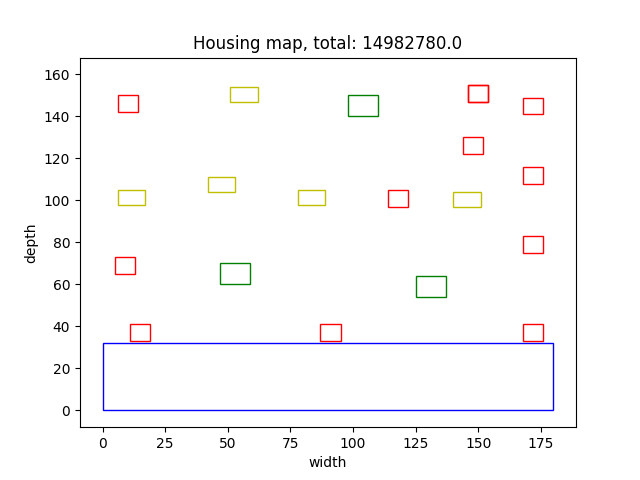
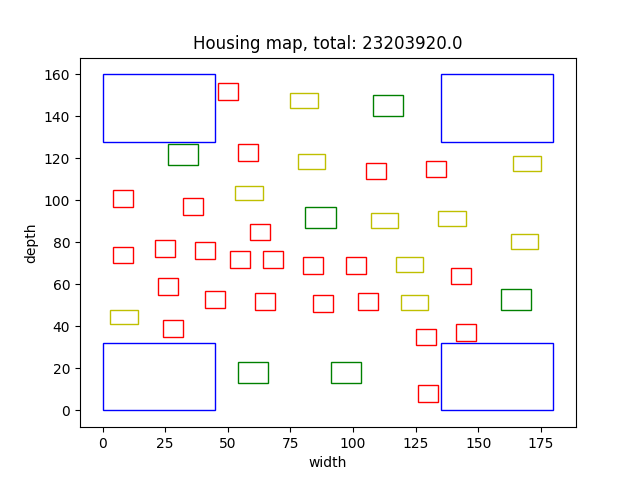
created a for loop for the whole hilclimber algo, saves best result

diff --git a/project_code/algorithms/hillclimber.py b/project_code/algorithms/hillclimber.py
@@ -17,17 +17,7 @@ class HillClimber():
             if water.polygon.intersects(house.polygon):
                 return False
 
-        # if house.bottom_left[0] - house.free_space < 0 or house.bottom_left[0] + house.free_space > 180:
-        #     return False
-        # if house.bottom_left[1] - house.free_space < 0 or house.bottom_left[1] + house.free_space > 160:
-        #     return False
-        # if house.top_right[0] - house.free_space < 0 or house.top_right[0] + house.free_space > 180: 
-        #     return False
-        # if house.top_right[1] - house.free_space < 0 or house.top_right[1] + house.free_space > 160:
-        #     return False
-        # return True
-
-
+        # checks if house crosses the land border
         if house.bottom_left[0] < house.free_space or house.bottom_left[0] > 180 - house.width_with_freespace or house.bottom_left[1] < house.free_space or house.bottom_left[1] > 160 - house.depth_with_freespace or house.top_right[0] < house.width_with_freespace or house.top_right[0] > 180 - house.free_space or house.top_right[1] < house.depth_with_freespace or house.top_right[1] > 160 - house.free_space:
             return False
     
@@ -41,18 +31,17 @@ class HillClimber():
         generations.append("copy_map")
         current_best_value = copy_map.total
         counter = 0
-        # steps = 8
-        iterations = 30
+        iterations = 35
 
         # data for iteration graph
         iteration_counter = 0
         results = []
         total_iterations = []
-        # steps = 2
+
         for i in range(iterations):
 
             if i < 7:
-                steps = 8 
+                steps = 4 
             if i >= 7 and i < 13:
                 steps = 4
             if i >= 13 and i < 20:
@@ -63,7 +52,6 @@ class HillClimber():
             for house in copy_map.all_land_objects:
                 copy_map.total = 0
                 if house.name != "water":
-                    # print("for loop values:")
 
                     # moves house to the right
                     total_value_right = 0
@@ -73,13 +61,11 @@ class HillClimber():
                     if self.valid_move(house, housing_map.water):
                         copy_map.calculate_distance(copy_map.all_land_objects)
                         total_value_right = copy_map.calculate_price(copy_map.all_land_objects)
-                        # copy_map_right = deepcopy(copy_map)
                     house.move(-steps, 0)
                     copy_map.total = 0
 
                     if total_value_right > current_best_value:
                         generations.pop(0)
-                        # generations.append(copy_map_right)
                         generations.append("right")
                         current_best_value = total_value_right
 
@@ -91,13 +77,11 @@ class HillClimber():
                     if self.valid_move(house, housing_map.water):
                         copy_map.calculate_distance(copy_map.all_land_objects)
                         total_value_left = copy_map.calculate_price(copy_map.all_land_objects)
-                        # copy_map_left = deepcopy(copy_map)
                     house.move(steps, 0)
                     copy_map.total = 0
 
                     if total_value_left > current_best_value:
                         generations.pop(0)
-                        # generations.append(copy_map_left)  
                         generations.append("left")   
                         current_best_value = total_value_left            
 
@@ -109,13 +93,11 @@ class HillClimber():
                     if self.valid_move(house, housing_map.water):
                         copy_map.calculate_distance(copy_map.all_land_objects)
                         total_value_up = copy_map.calculate_price(copy_map.all_land_objects)
-                        # copy_map_up = deepcopy(copy_map)
                     house.move(0, -steps)
                     copy_map.total = 0
 
                     if total_value_up > current_best_value:
                         generations.pop(0)
-                        # generations.append(copy_map_up)
                         generations.append("up")
                         current_best_value = total_value_up
 
@@ -127,40 +109,26 @@ class HillClimber():
                     if self.valid_move(house, housing_map.water):
                         copy_map.calculate_distance(copy_map.all_land_objects)
                         total_value_down = copy_map.calculate_price(copy_map.all_land_objects)
-                        # copy_map_down = deepcopy(copy_map)
                     house.move(0, steps)
                     copy_map.total = 0
 
                     if total_value_down > current_best_value:
-                        generations.pop(0)
-                        # generations.append(copy_map_down)   
+                        generations.pop(0)          
                         generations.append("down")
                         current_best_value = total_value_down
                     
+                    # makes the decisive move based upon the best value
                     if generations[0] == "right":
                         house.move(steps, 0)
-                        # copy_map = deepcopy(copy_map)
-
                     elif generations[0] == "left":
                         house.move(-steps, 0)
-                        # copy_map = deepcopy(copy_map)
-
                     elif generations[0] == "up":
                         house.move(0, steps)
-                        # copy_map = deepcopy(copy_map)
-
                     elif generations[0] == "down":
                         house.move(0, -steps)
-                        # copy_map = deepcopy(copy_map)
                     
                     generations = ["copy_map"]
-                    # else:
-                    #     house.move(0, 0)
-                        # copy_map = deepcopy(copy_map)
 
-                    # copy_map = deepcopy(generations[0])   
-                    # print("one for loop done")
-                    # copy_map = deepcopy(copy_map)
             counter += 1
 
             # data for iteration graph
@@ -168,18 +136,13 @@ class HillClimber():
             total_iterations.append(iteration_counter)
             results.append(current_best_value)
 
-            print(counter)
-
         # calculates value for return object
         copy_map.calculate_distance(copy_map.all_land_objects)
         total_value_up = copy_map.calculate_price(copy_map.all_land_objects)
         copy_map.calculate_price_real(copy_map.all_land_objects)
-        
+
         print(f"total: {copy_map.total}")
         print(f"total_real: {copy_map.total_real}")
-        
-        # print(total_iterations)
-        # print(results)
         
         plt.plot(total_iterations, results)
         plt.xlabel('x - axis')
@@ -187,9 +150,4 @@ class HillClimber():
         plt.title('Iteration graph')
         plt.savefig('output/iteration_graph.png')
 
-        return copy_map
-        # visualise(copy_map.all_land_objects, copy_map.total)
-
-    
-
-    
+        return copy_map 

diff --git a/main.py b/main.py
@@ -32,21 +32,23 @@ if __name__ == "__main__":
     # # ---------------------------------------------------------------
 
     # --------------------------- Hill Climber  --------------------------
+    empty_graph = Land(f"data/{wijk_number}.csv")
     results = []
     winner = None
-    for i in range(12):
-        empty_graph = Land(f"data/{wijk_number}.csv")
-        starting_graph = Randomise(empty_graph, number_of_houses, 12)
+    counter = 0
+    for i in range(3):
+        starting_graph = Randomise(empty_graph, number_of_houses, 100)
         winner_graph = HillClimber(starting_graph.winner)
         results.append(winner_graph.winner.total_real)
-        
+
         if winner == None:
             winner = winner_graph
         if winner_graph.winner.total_real > winner.winner.total_real:
             winner = winner_graph
-    
-    # winner_graph.winner.total_real
-    visualise(winner_graph.winner.all_land_objects, winner_graph.winner.total_real)
+        counter += 1
+        print(counter) 
+
+    visualise(winner.winner.all_land_objects, winner.winner.total_real)
 
     # ---------------------------------------------------------------------
 

diff --git a/project_code/algorithms/render_randomise.py b/project_code/algorithms/render_randomise.py
@@ -113,7 +113,7 @@ class Randomise():
                 highest_scoring_map = resulting_map
                 highest_score = total_value
 
-            print(total_value)
+            # print(total_value)
         
         return highest_scoring_map
     
